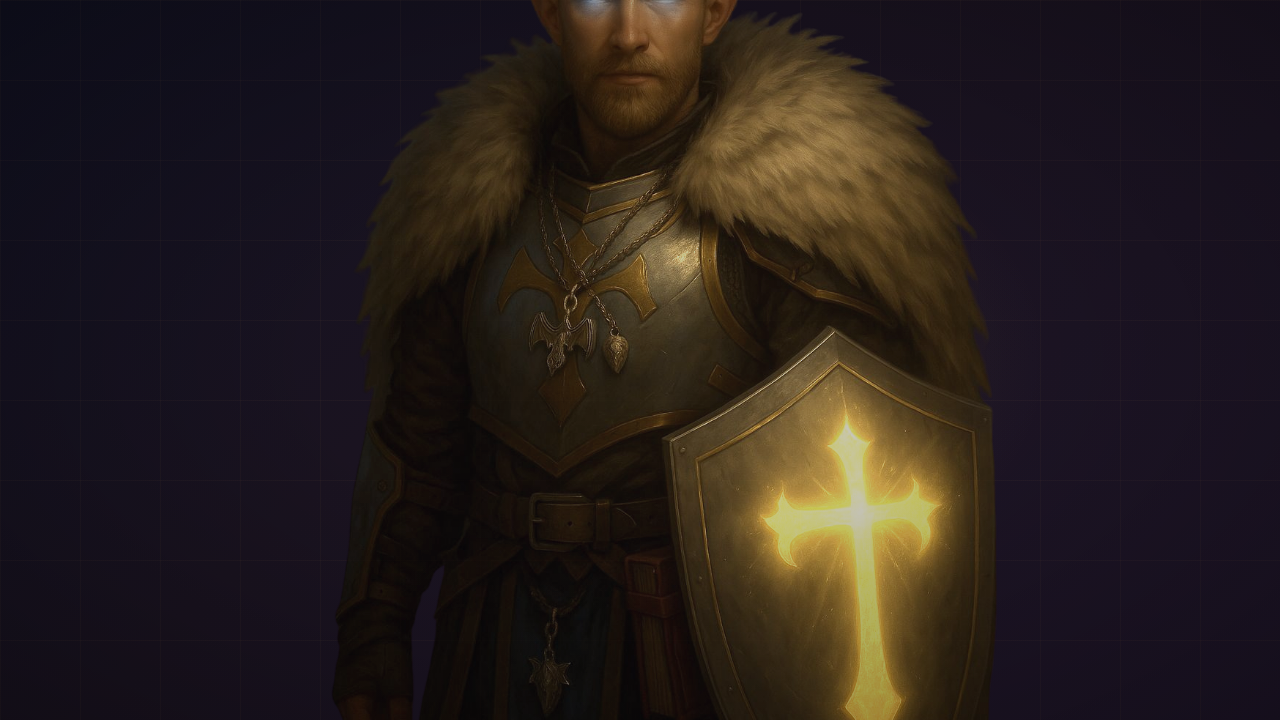
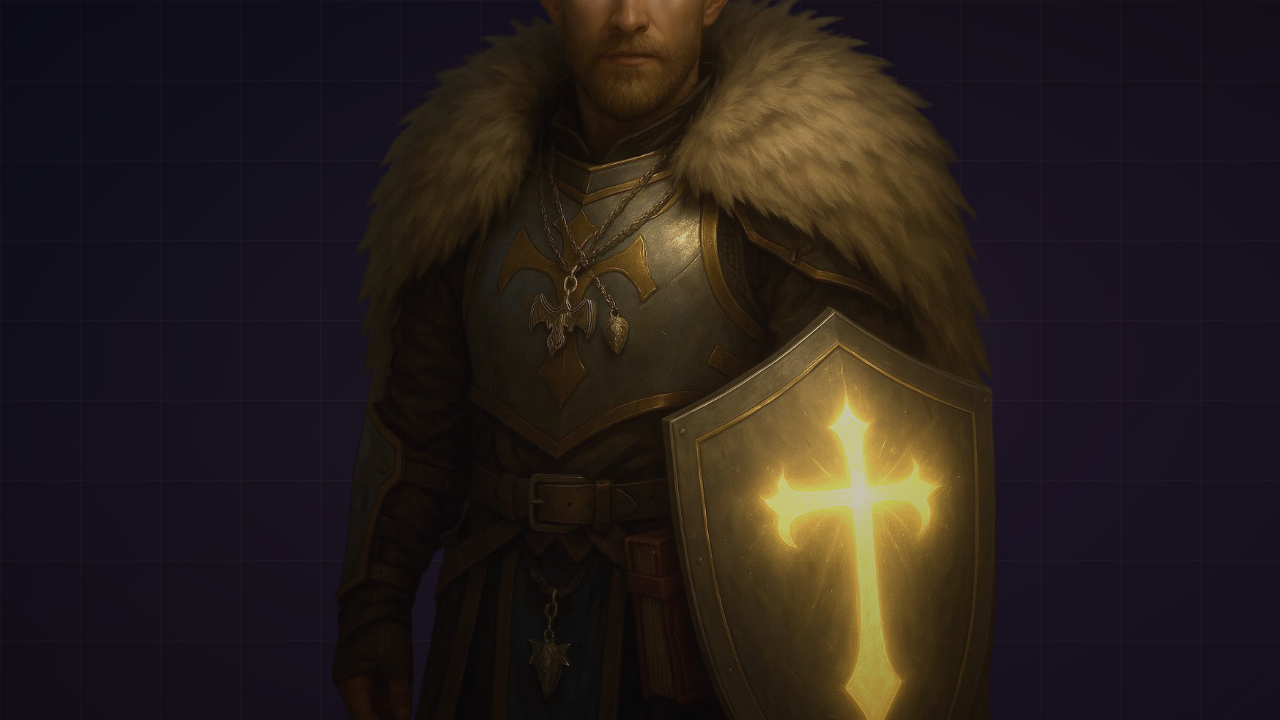
fix(blog): barsavi object-position 35% — rosto completo visível

diff --git a/docs/social-media/arts/blog-hero-visual.html b/docs/social-media/arts/blog-hero-visual.html
@@ -214,7 +214,7 @@
   <div class="hero-bg" style="background: linear-gradient(135deg, #111122 0%, #1a1320 40%, #1e1528 100%);"></div>
   <div class="hero-grid"></div>
   <div class="hero-glow" style="left: 55%;"></div>
-  <img class="hero-art" src="../arts/assets/capa-barsavi-portrait.png" alt="" style="width: 750px; height: 1000px; opacity: 0.75; filter: saturate(0.9) brightness(1.25); object-position: center 20%;">
+  <img class="hero-art" src="../arts/assets/capa-barsavi-portrait.png" alt="" style="width: 750px; height: 1000px; opacity: 0.75; filter: saturate(0.9) brightness(1.25); object-position: center 35%;">
   <div class="hero-vignette"></div>
 </div>
 
@@ -224,7 +224,7 @@
   <div class="hero-bg" style="background: linear-gradient(135deg, #111122 0%, #1a1320 40%, #1e1528 100%);"></div>
   <div class="hero-grid"></div>
   <div class="hero-glow" style="left: 50%;"></div>
-  <img class="hero-art" src="../arts/assets/capa-barsavi-portrait.png" alt="" style="width: 750px; height: 1000px; opacity: 0.75; filter: saturate(0.9) brightness(1.25); object-position: center 20%;">
+  <img class="hero-art" src="../arts/assets/capa-barsavi-portrait.png" alt="" style="width: 750px; height: 1000px; opacity: 0.75; filter: saturate(0.9) brightness(1.25); object-position: center 35%;">
   <div class="hero-vignette"></div>
 </div>
 
